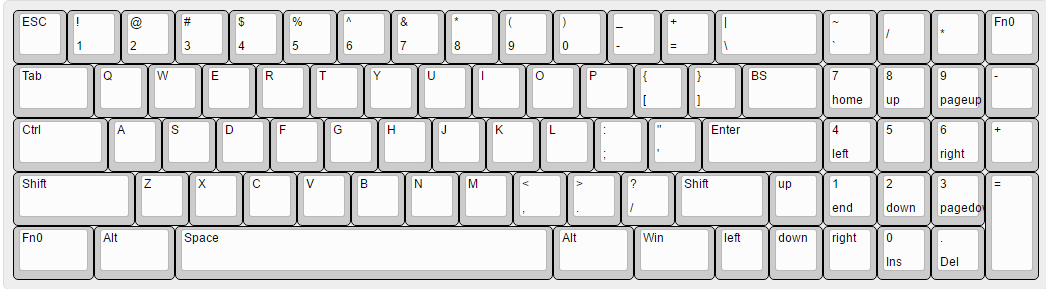
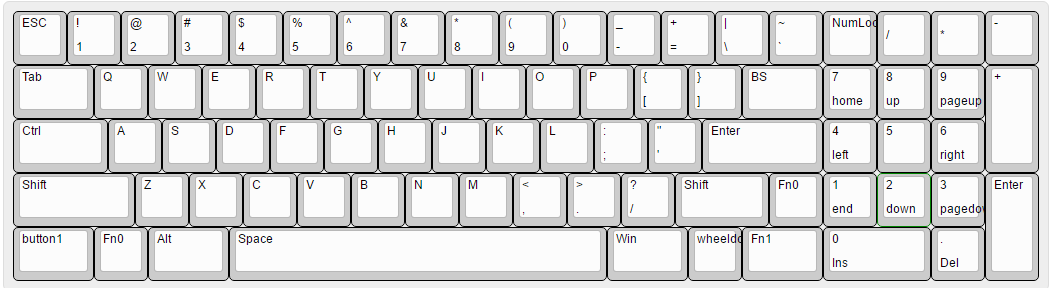
relayouted

Changed region(s): [[0.0, 0.0, 1.0, 1.0]]

diff --git a/3-rs77/readme.md b/3-rs77/readme.md
@@ -1,9 +1,10 @@
 I bought a RS77 from someone on Taobao. A little expensive but I'm quite satisfied with its layout.
 
 
-I was a little shocked that though I swaped the position of backspace and '\', I always pressed the "original" backspace position to delete work.
+I have modified the layout into my GH60+numpad. tried to have a 6u space bar, however, the fly line doesn't stable. To stable, it has to move around 0.3u space then the keycap cannot be put inside :(
 
-WTF?! I'm a HHKB user!!
+There is still no arrow keys ;)
 
 ![](layer1.png)
 ![](layer2.png)
+![](layer3.png)
